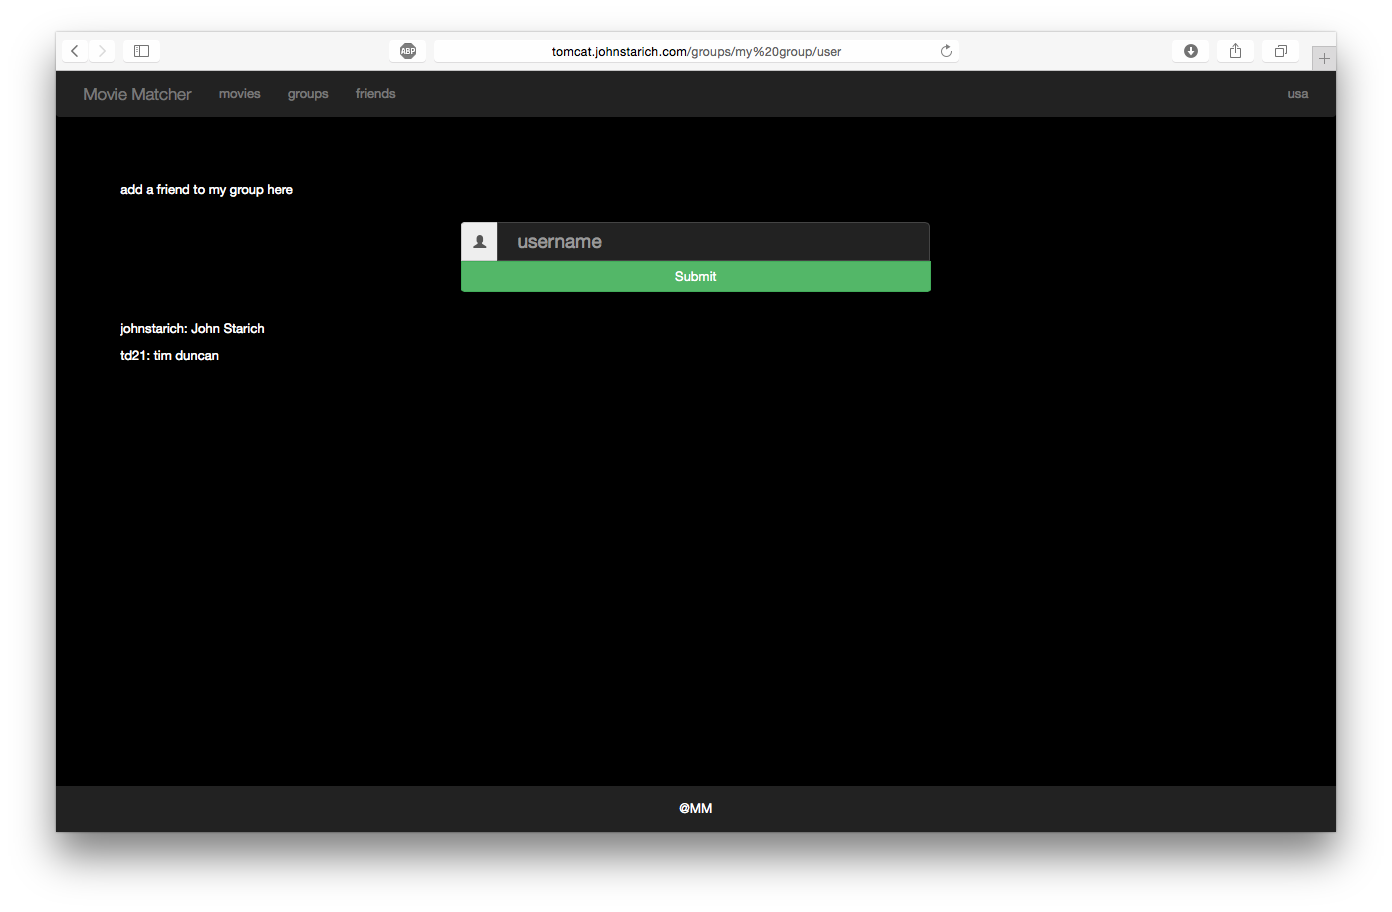
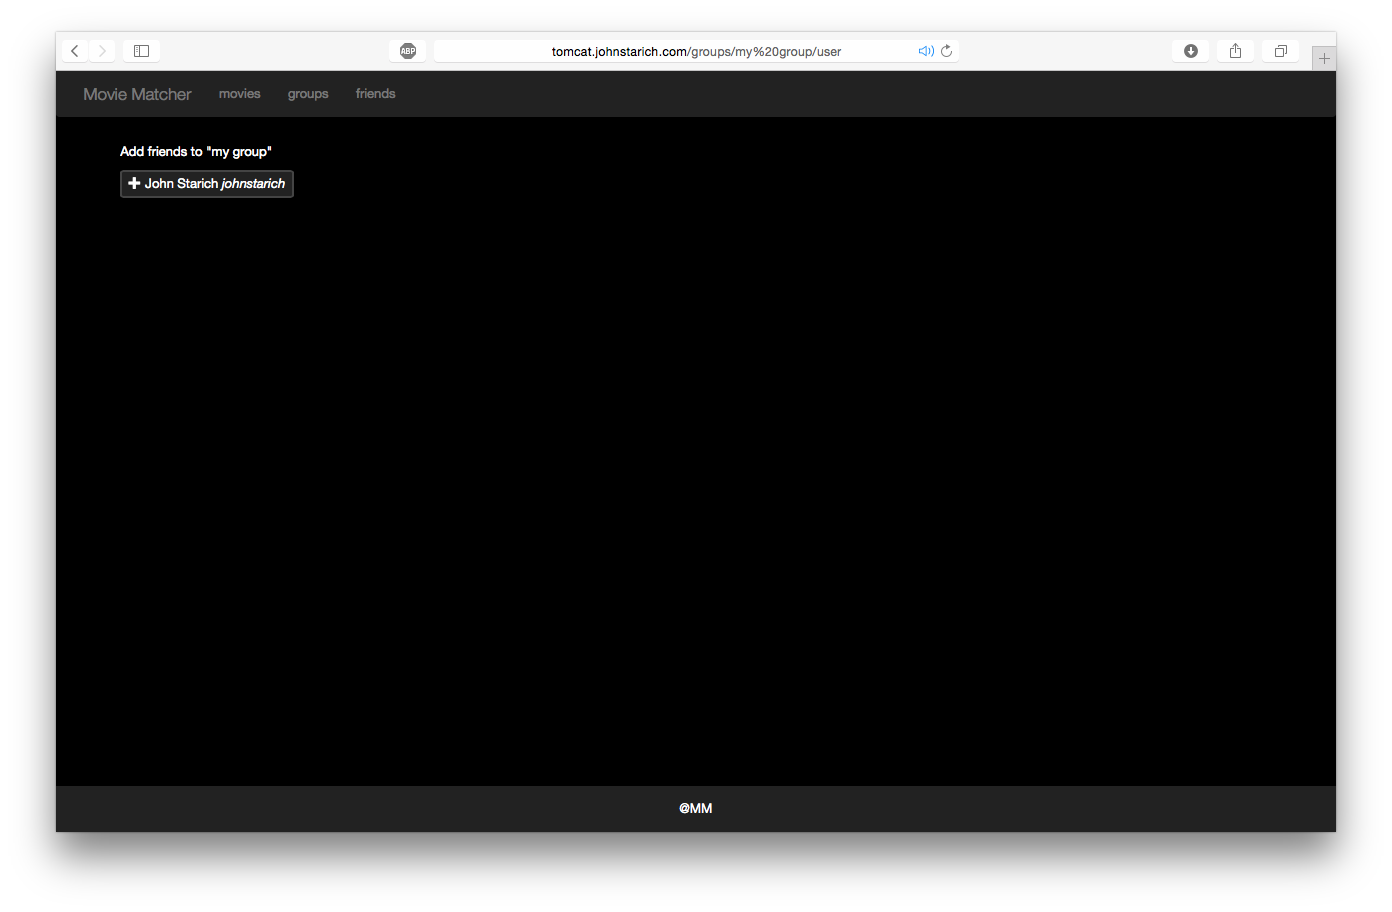
Finalreport (#58)
* on our way towards returning movies

* final report initial commit

* updated screenshots for final report:

* fixed unnecessary line feed

* fixed unnecessary line feed again

* Add Design and User Interface descriptions

* Update FinalReport.md

Changed region(s): [[0.3089, 0.2456, 0.6796, 0.3377], [0.0618, 0.1535, 0.2162, 0.2149], [0.0927, 0.3377, 0.1853, 0.3991]]

diff --git a/src/main/java/com/johnstarich/moviematcher/models/Group.java b/src/main/java/com/johnstarich/moviematcher/models/Group.java
@@ -2,7 +2,6 @@ package com.johnstarich.moviematcher.models;
 
 import com.johnstarich.moviematcher.CountedSet;
 import com.johnstarich.moviematcher.app.HttpException;
-import com.johnstarich.moviematcher.app.HttpStatus;
 import com.johnstarich.moviematcher.store.MovieMatcherDatabase;
 import de.caluga.morphium.annotations.Index;
 import de.caluga.morphium.annotations.Reference;
@@ -12,14 +11,7 @@ import org.bson.types.ObjectId;
 import java.util.ArrayList;
 import java.util.Arrays;
 import java.util.List;
-import java.util.Collections;
-import java.util.Map;
-import java.util.Optional;
-import java.util.HashMap;
-import java.util.LinkedHashMap;
-import java.util.LinkedList;
 import java.util.stream.Collectors;
-import java.util.Map.Entry;
 
 /**
  * Created by Josue on 4/16/2016.

diff --git a/docs/FinalReport.md b/docs/FinalReport.md
@@ -38,39 +38,102 @@ Users can register on the site and browse the movie database. Users would spend 
 
 ## Design
 
+Movie Matcher is composed of two projects, the web UI and Java API.
+
+### UI
+The UI is built using the [Ember.js][] web application framework. Ember compiles all of the models, views, and controllers into a single application such that the entire site's front-end is downloaded upon visiting the site. Ember makes heavy use of JavaScript's ability to render HTML, so every single "page" is templated and modularized. It compiles [ES2015][]-compliant JavaScript into older versions of JavaScript, compiles [Sass CSS][] into normal CSS, and creates templated HTML components loaded in with whichever variables are provided.
+
+Ember has significantly increased the quality of our site. It provides us with impressive functionality where we would otherwise have missed the opportunity. Of course, it has been a huge learning experience for all of us. Ember is a framework one can neither learn completely nor quickly. In our efforts to understand Ember, we have learned a great deal about how to develop for front-end [MVC][] frameworks and we will each likely use this experience again in the future.
+
+[Sass CSS]: http://sass-lang.com
+[Ember.js]: http://emberjs.com
+[ES2015]: https://babeljs.io/docs/learn-es2015/
+[MVC]: https://en.wikipedia.org/wiki/Model–view–controller
+
+### API
+The API for Movie Matcher is written in [Java][] using [Jetty][] as the servlet container back-end and the [Spark][] filter on top of that. Jetty is similar to [Tomcat][] in that it can package its applications into containers called "war" files, but its distinguishing feature is that is can also be run in an embedded fashion, such that its startup time during development is greatly decreased. Spark is a micro framework placed on top of Jetty's servlets that makes route creation and management significantly easier, yet everything remains quite extensible. We have built our entire API on top of Spark's and included custom extensions for our own use.
+
+The data storage is done in a [MongoDB][] instance. The API communicates with MongoDB using the [Morphium][] driver which provides an easy interface for object storage and object updates. It enables us to simply annotate a common `AbstractModel` class that handles all DB operations except the specialized search queries. Every class extending AbstractModel automatically has support for a MongoDB collection and its load/store methods.
+
+We encrypt our users' passwords using [jbcrypt][]. This library uses the [Blowfish][] cryptographic cipher to create one-way passwords that allow for [exponentially increasing computation time](http://www.openbsd.org/papers/bcrypt-paper.ps). This makes our application's password storage adaptable over time, despite computing power increases.
+
+Tests are performed using both [JUnit][] and [Embedded MongoDB][]. Using a combination of these two libraries, we were able to write unit tests using JUnit for the simpler classes and full system tests using Embedded MongoDB for our database models.
+
+[Java]: https://www.oracle.com/java/index.html
+[Jetty]: http://www.eclipse.org/jetty/
+[Spark]: http://sparkjava.com
+[Tomcat]: http://tomcat.apache.org
+[Morphium]: https://github.com/sboesebeck/morphium/
+[MongoDB]: https://www.mongodb.com
+[jbcrypt]: https://github.com/jeremyh/jBCrypt
+[Blowfish]: https://en.wikipedia.org/wiki/Blowfish_(cipher)
+[JUnit]: http://junit.org/
+[Embedded MongoDB]: https://github.com/flapdoodle-oss/de.flapdoodle.embed.mongo
+
+
 ![Design](screenshots/design.png)
 
-![Updated Class Diagram](screenshots/classDiagram1.png)
+Overall design for Movie Matcher
 
-![Updated Class Diagram](screenshots/classDiagram2.png)
+![Updated Class Diagram 1](screenshots/classDiagram1.png)
+
+![Updated Class Diagram 2](screenshots/classDiagram2.png)
+
+Movie Matcher class diagrams
 
 ## User Interface
 
 ![Login](screenshots/login.png)
 
+The user login page
+
 ![Register](screenshots/register.png)
+
+The user registration page
 
 ![Movie Search w/ Rating](screenshots/movie_search_wrating.png)
 
+The movies search results page, showing a user rating in yellow
+
 ![Friends List](screenshots/friendslist.png)
+
+The friends page, showing a user's current friends list
 
 ![Find Friends](screenshots/findfriends.png)
 
+The friends search page, allows the user to add friends they search for
+
 ![Add Friends](screenshots/addfriends.png)
+
+The confirmation for adding a friend
 
 ![Make Group](screenshots/makegroup.png)
 
+The create group page, allows the user to create new groups of friends to Movie Match on
+
 ![Add Group](screenshots/addedgroup.png)
+
+The groups page, showing a created group and an added user
 
 ![Add friends to group](screenshots/addfriendstogroup.png)
 
+The "add friends to group" page, allows the user to add their friends to a Movie Match group
+
 ![Group has members](screenshots/grouphasfriends.png)
+
+The groups page showing more users having been added to the group
 
 ![Group Recommendations](screenshots/grouprecommendations.png)
 
+The Movie Match recommendations for a group
+
 ![Settings](screenshots/settings.png)
 
+The settings page, allows the user to change their username and name
+
 ![Change Name](screenshots/changename.png)
+
+The settings page, showing a name change
 
 ## Testing Tools, Test Scenarios, and Test Cases
 
@@ -83,4 +146,4 @@ The team decided it would be best if we did not merge buggy code onto our master
 
 In terms of the front end, there was an ember automatic build that helped out when we would create and modify the front end. It was fairly quick because as soon as one saved a javascript or handlebars file we would know if that code broke or not. The team was not able to find an option where the UI tests could be done automatically. So with the help of browser debugging tools, the UI was tested by just playing with the features. 
 
-Once we had most of the front and back end, a friend walked through our web application and reported what their opinion on the functionality of the website. We took their comments into consideration and made changes. 
+Once we had most of the front and back end, a friend walked through our web application and reported what their opinion on the functionality of the website. We took their comments into consideration and made changes.
